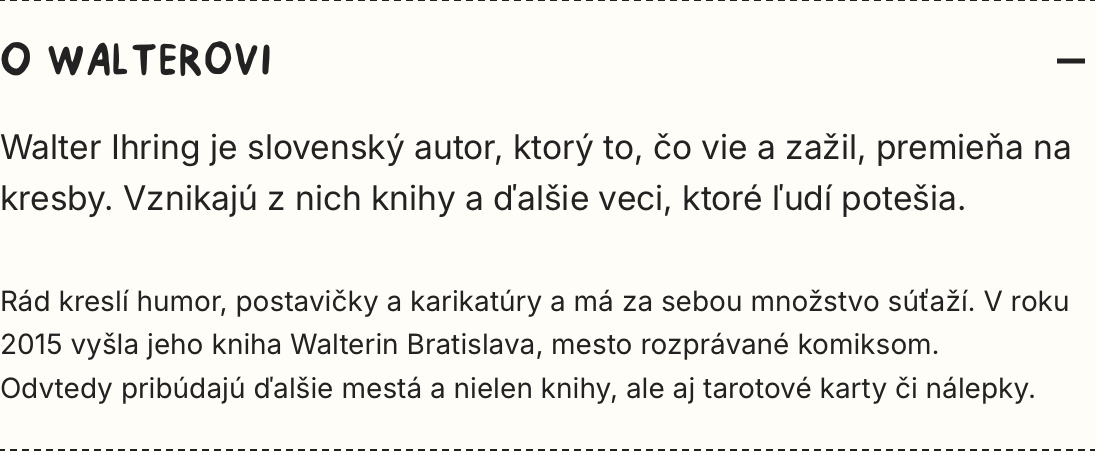
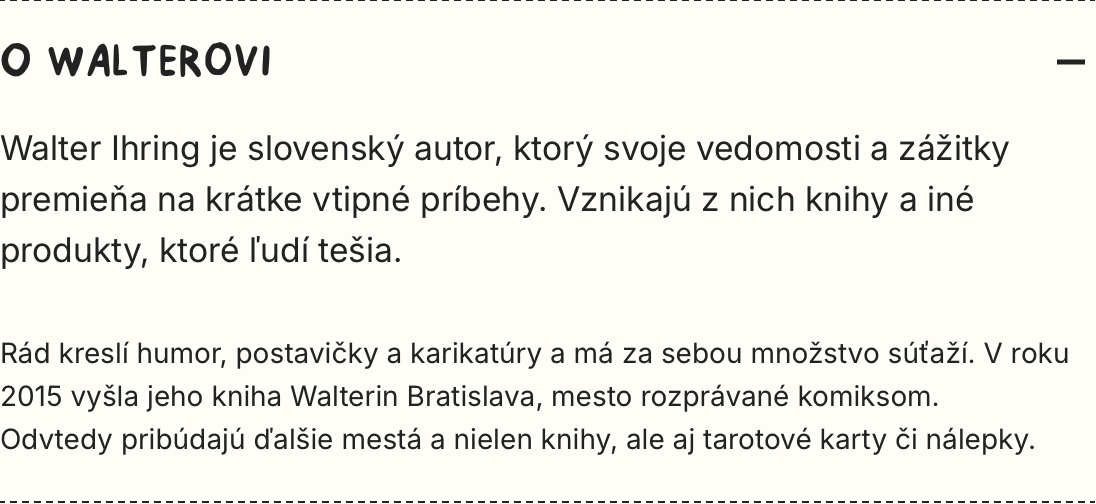
Tarot accordions, round two: Veronka's 9 Oct corrections
What's in the box is one flat list - every line on the same left edge, the two
bonus cards marked with an en dash instead of an indent, and "The box" as the
last line of the same list so the spacing never breaks. How to read is two
paragraphs, not three. New "As a gift" text and new "About Walter" lead.

"As a gift" can now be overridden per product: the shared text tells the reader
to pick their language, which is nonsense under the stickers, so stickers carry
their own sentence. It is written and waiting; it reaches the page when the
stickers move onto the locale files, which is the next step.

Line breaks re-checked at 390, 768, 1024 and 1440 in both languages. Five new
joins, no orphan and no stranded word left in the five accordions.

Docs: the contact-page wording proposed (not applied), and the four accordion
texts added to COPY-GUIDE.md as the standard for every product page.

Preview only. Nothing pushed.

diff --git a/assets/walterin-ui.css b/assets/walterin-ui.css
@@ -2489,13 +2489,3 @@ html:has(a[data-wui-scroll]) { scroll-behavior: smooth; }
   text-underline-offset: 0.18em;
 }
 
-/* The box list's second level.
-   The theme hides list markers everywhere (:where(.wui-scope) :is(ul, ol)), so a
-   nested list would otherwise sit flush with its parent and the two bonus cards
-   would read as two more top-level items. The indent is the only thing saying
-   they belong under "2 bonus cards:".
-   FLAGGED FOR VERONKA — the live list is flat; this indent is new. */
-.wui .wui-included ul ul {
-  padding-left: var(--wui-space-block, 24px);
-  margin-top: var(--wui-space-control, 4px);
-}

diff --git a/docs/design/COPY-GUIDE.md b/docs/design/COPY-GUIDE.md
@@ -100,3 +100,91 @@ si príbeh užijete, aj keď o histórii veľa neviete.
 **Slovak is written, not translated.** The two versions above say the same thing and are not the
 same sentences — compare *"the drawing stays with you"* with *"kresba vám ostane v pamäti"*. Draft
 each language on its own, then check they promise the same thing.
+
+---
+
+## The product-page reference texts (Veronka, 9 October 2026)
+
+**The three home-page texts above are the standard for the site. These are the standard for every
+product page.** Same voice, different job: the home page says what the work is like, a product page
+says what is in the box and who it is for.
+
+The shape, and it is not optional:
+
+> **A large lead sentence that says the main thing.**
+> A shorter text under it with what the reader gets.
+
+The stylesheet does the sizing — the first paragraph of an accordion is the lead. So the first
+sentence has to be able to carry the whole item on its own, and everything that is detail goes
+below it.
+
+### How to read
+
+**EN lead** Whether it’s your first time holding a tarot deck or you read the cards every morning,
+you won’t need a book. Everything is drawn right there on the card.
+**EN text** That’s why this deck is for everyone. Just take a look and read what the card is
+telling you. Use any spread you already know. Two come with the deck. […]
+
+**SK lead** Či tarot držíte v ruke prvýkrát, alebo si vykladáte každé ráno, knižku nepotrebujete.
+Všetko je nakreslené priamo na karte.
+**SK text** Preto je tento balíček pre každého. Stačí sa pozrieť a prečítať si, čo vám karta hovorí.
+Použite ktorýkoľvek výklad, ktorý poznáte. […]
+
+### About the deck
+
+**EN lead** Walter Ihring’s Tarot of Consciousness grew out of the classic Rider–Waite tarot. Every
+card is a nine-frame path, a little journey in nine steps.
+**EN text** The cards are like a mirror. They show you what’s going on inside, how you feel and
+where you’re headed. Look at the picture first, then read the words, and notice what the card
+leaves you with.
+
+**SK lead** Komiksový tarot vedomia od Waltera Ihringa vychádza z klasického tarotu Rider–Waite.
+Každá karta je cesta v deviatich krokoch, nakreslená v deviatich okienkach.
+**SK text** Karty fungujú ako zrkadlo. Ukážu vám, čo sa vo vás deje, čo cítite a kam smerujete.
+Najprv sa pozrite na obrázok, potom si prečítajte text a všimnite si, čo vo vás karta zanechá.
+
+### As a gift
+
+**EN lead** An original gift for the people closest to you: your partner, your mum, your dad or a
+friend.
+**EN text** You’re giving a piece of art unlike anything they already have. Pick the language they
+love to read in. It’s sure to make anyone happy, and it lasts a lifetime.
+
+**SK lead** Originálny darček pre blízkych: pre partnera, maminu, ocina či kamaráta.
+**SK text** Darujete kúsok umenia, aký váš blízky ešte nemá. Vyberte jazyk, v ktorom rád číta.
+Poteší každého a vydrží celý život.
+
+### About Walter
+
+**EN lead** Walter Ihring is a Slovak author who turns what he knows and has experienced into
+short, funny stories. They become books and other things that make people happy.
+**EN text** He loves drawing funny cartoons, characters and caricatures, and has plenty of
+competitions under his belt. In 2015 he published Walterin Bratislava, a city told in comics.
+Since then, more cities have followed, and not just books, but tarot cards and stickers too.
+
+**SK lead** Walter Ihring je slovenský autor, ktorý svoje vedomosti a zážitky premieňa na krátke
+vtipné príbehy. Vznikajú z nich knihy a iné produkty, ktoré ľudí tešia.
+**SK text** Rád kreslí humor, postavičky a karikatúry a má za sebou množstvo súťaží. V roku 2015
+vyšla jeho kniha Walterin Bratislava, mesto rozprávané komiksom. Odvtedy pribúdajú ďalšie mestá a
+nielen knihy, ale aj tarotové karty či nálepky.
+
+### What makes them the standard
+
+1. **A large lead that says the main thing.** "You won't need a book." "It grew out of the classic
+   Rider–Waite tarot." If the reader only reads the first sentence, they still know the answer.
+2. **A shorter text under it with what the reader gets**, never a second attempt at the same point.
+3. **Formal "vy" in Slovak**, on every product page, every time. *Vyberte*, *pozrite sa*,
+   *prečítajte si*. Never *vyber si*.
+4. **Warm and concrete.** A partner, a mum, a dad, a friend. A mirror. A morning. Not "connection",
+   not "journey of discovery".
+5. **No abstract lines.** The deck is illustration, story and an object you own — never a therapy
+   tool, never Jungian, never self-help.
+6. **English as warm and natural as the Slovak, and never a literal translation.** *"Darujete kúsok
+   umenia, aký váš blízky ešte nemá"* became *"You're giving a piece of art unlike anything they
+   already have"* — the same promise, built out of English, not out of Slovak word order.
+
+**A shared text stays shared.** "As a gift" and "About Walter" say the same thing under every
+product, so they live in one place and one edit changes them everywhere. A product only forks a
+text when the shared one would be *wrong* for it — the stickers have no language, so "Pick the
+language they love to read in" cannot stand under them, and they get their own sentence. Liking a
+variation is not a reason to fork.

diff --git a/docs/legal/copy-proposal-contact-2026-10-09.md b/docs/legal/copy-proposal-contact-2026-10-09.md
@@ -1,0 +1,65 @@
+# The contact page — company details above the form
+
+**Proposal only. Nothing changed, nothing live.** Veronka, 9 Oct 2026.
+
+Page: `/pages/contact` and `/sk/pages/contact`.
+
+---
+
+## Why
+
+Measured on walterin.com, 9 Oct: the contact page carries **no company name, no postal address and
+no email**. It is a form and nothing else. The details exist in the Terms, the Privacy policy, the
+Refund policy, the Contact-information policy and one FAQ answer — but not on the page a customer
+actually opens when they want to reach us, and not on the product pages either since the
+Manufacturer line came off them today.
+
+Second thing worth knowing: **`/policies/contact-information` is linked from nowhere on the site.**
+It is reachable only by typing the URL. Whatever the lawyer says about GPSR Art. 19, that page
+cannot be the answer while nothing points at it.
+
+---
+
+## The wording
+
+Exactly the details from Terms clause 1 — same spelling, same order, nothing new invented, nothing
+added that is not already published.
+
+### English
+
+> **Walterin s. r. o.**
+> Ľubochnianska 4, 831 04 Bratislava – Nové Mesto, Slovakia
+> support@walterin.com · +421 905 549 907
+> Company ID (IČO): 57297991 · Tax ID (DIČ): 2122655755
+>
+> Monday to Friday, 9:00–17:00 CET. We answer within two working days.
+
+### Slovak
+
+> **Walterin s. r. o.**
+> Ľubochnianska 4, 831 04 Bratislava – Nové Mesto, Slovensko
+> support@walterin.com · +421 905 549 907
+> IČO: 57297991 · DIČ: 2122655755
+>
+> Pondelok až piatok, 9:00–17:00 SEČ. Odpovedáme do dvoch pracovných dní.
+
+---
+
+## Three decisions for you
+
+**1 · The last line is already on the page, in English only, and it is a promise.** The live page
+says the team is available `Monday–Friday, 9:00–17:00 CET` and will reply `within 2 business days`.
+I have kept it because removing it is a change you did not ask for — but it is a service promise
+nobody has signed off, and it is the kind of sentence a customer quotes back. **Keep it, soften it,
+or cut it?** My vote: keep the hours, cut the two-day promise.
+
+**2 · The registration line.** IČO and DIČ are required on business documents and are already
+public in the Terms. On a contact page they read as officialdom. **Keep them here, or leave them in
+the Terms?** My vote: keep them — this is the page that is doing the legal-notice job, so it should
+do it properly.
+
+**3 · Where it sits.** Above the form, under the page title, before "Contact form". The alternative
+is a quiet block below the form. **Above** is the right call: someone who only wants the address
+should not have to scroll past a nine-field form to find it.
+
+Nothing is applied. Correct the wording and I will build it as its own step.
